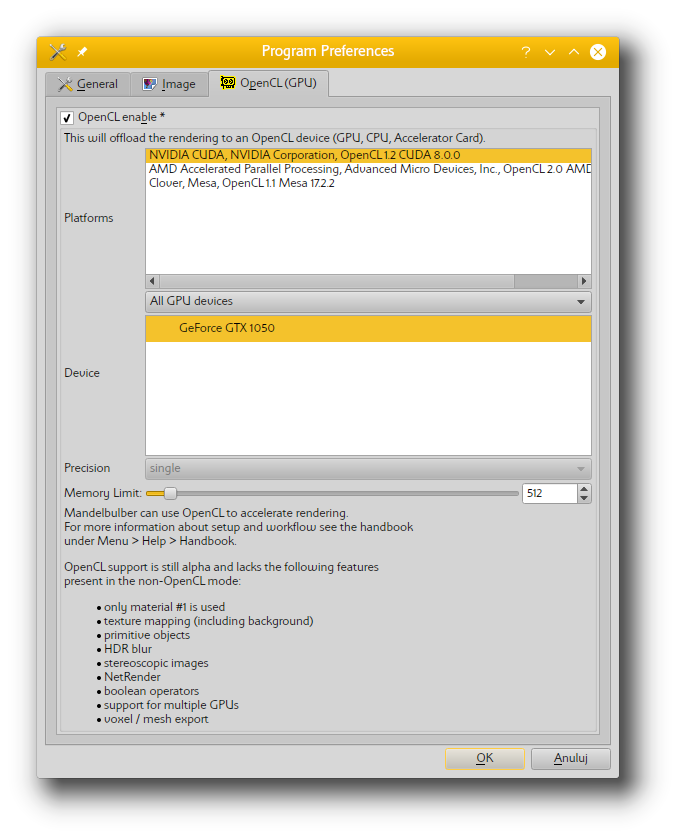
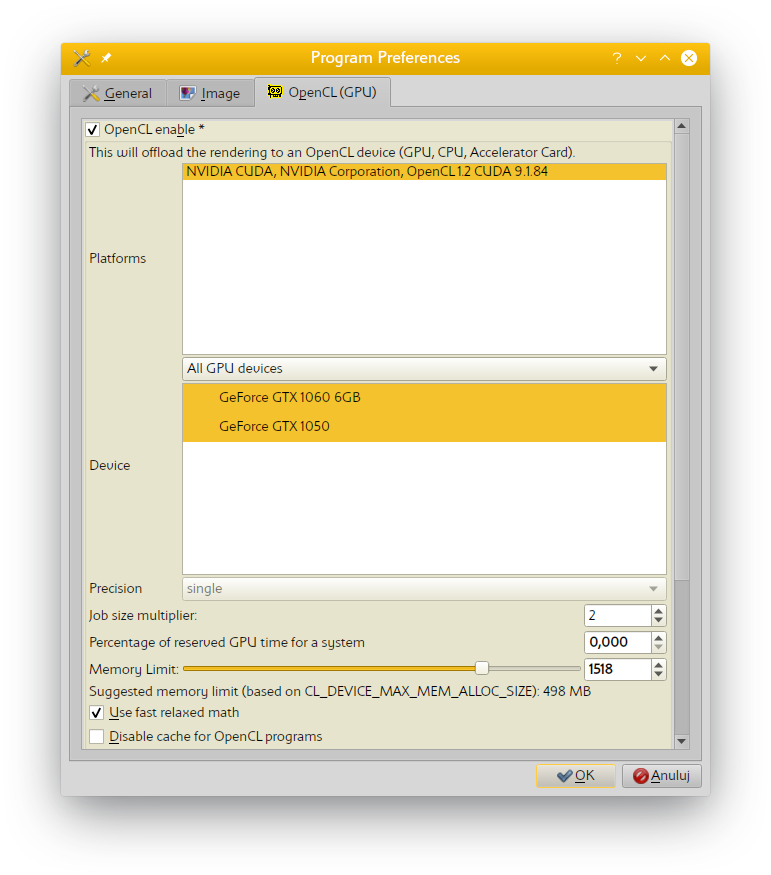
Updated chapter about OpenCL

diff --git a/mandelbulber2/manual/chapters/opencl.tex b/mandelbulber2/manual/chapters/opencl.tex
@@ -2,7 +2,7 @@
 
 \section{OpenCL}\label{opencl}\index{OpenCL}
 
-The use of OpenCL enables offloading the rendering of the fractal to the
+The use of OpenCL \index{termination condition!maxiter} enables offloading the rendering of the fractal to the
 GPU or to an accelerator card. This can highly reduce the render time.
 OpenCL itself is an industry standard developed by the Khronos group and
 is a well established framework. The two mayor GPU vendors (ATI / Nvidia)
@@ -57,30 +57,39 @@ You will find the configuration page in figure \ref{opencl_tab}.
 
 \begin{itemize}
 	\item First you need to enable OpenCL by enabling the checkbox
+	
 	\item Then you need to select the platform and device to identify the OpenCL hardware 
 		element to render with.
+		
+	\item Select devices which you want to use during rendering. Can be used many devices simultaneously. There need to be selected at least one device.
 %	\item \textbf{Precision} - Switch between float and double precision
 %	\begin{itemize}
 %		\item \textbf{float} - gives high performance render, but is limited in precision, 
 %			sometimes this mode can result in artifacts and bad DE.
 %		\item \textbf{double}- gives lower performance render (at least by factor 2), but has the same accuracy as the non OpenCL version. This mode may prevent artifacts.
 %	\end{itemize}
-%	\item \textbf{Mode} - Switches the rendering engine between different levels of shader extent.	
-	\item \textbf{Memory Limit} - Memory limit in MB for the device. Most graphics cards cannot handle memory objects larger than 512MB. If you observe that SSAO or DOF effects fail during rendering you can try to decrease this limit. When the program needs more memory (image resolution too high), then the effects will be rendered using CPU.
+%	\item \textbf{Mode} - Switches the rendering engine between different levels of shader extent.
 	\item \textbf{Mode} - This setting is located in the Navigation dock just below the RENDER button. It switches the rendering engine between different levels of shader extent.
-	\begin{itemize}
-		\item  \textbf{no OpenCL} - temporarily disables OpenCL  Rendering is done by CPU.
-		\item  \textbf{fast} - renders preview of the fractal shape. The appearance of the fractal is not realistic, but the rendering is very fast.
-		\item  \textbf{medium} - image is rendered with correct surface colors, but volumetric effects, reflection and refraction of light is not calculated. There is used only first defined material. This mode offers more realistic rendering than in \emph{fast} mode and uses less graphics card resources than in \emph{full} mode. 
-		\item  \textbf{full} - renders all effects	
-	\end{itemize}
-
-Note: When openCL is enabled the image will be rendered in \textbf{fast mode}, a user must change to limited or full modes to get a realistic appearance. The default setting is \textbf{fast mode}  because on low cost gfx cards (like built-in Intel), \textbf{full} mode doesn't work and can cause the gfx driver to crash. 	
-
-	
-\end{itemize}
-	\simpleImageWithCaptionHalfWidth{img/manual/media/opencl_mode.png}{OpenCL Mode in Navigation dock}
+		\simpleImageWithCaptionHalfWidth{img/manual/media/opencl_mode.png}{OpenCL Mode in Navigation dock}
 	{opencl_mode}
+\begin{itemize}
+	\item  \textbf{no OpenCL} - temporarily disables OpenCL  Rendering is done by CPU.
+	\item  \textbf{fast} - renders preview of the fractal shape. The appearance of the fractal is not realistic, but the rendering is very fast.
+	\item  \textbf{medium} - image is rendered with correct surface colors, but volumetric effects, reflection and refraction of light is not calculated. There is used only first defined material. This mode offers more realistic rendering than in \emph{fast} mode and uses less graphics card resources than in \emph{full} mode. 
+	\item  \textbf{full} - renders all effects	
+\end{itemize}
+
+	\item \textbf{Percentage of reserved GPU time for a system} - rendering using OpenCL can slow down the system when there is used the same graphics card as display adapter. To be able to use the system you can reserve small percentage of GPU time for other programs.
+	
+	\item \textbf{Memory Limit} - Memory limit in MB for the device. Most graphics cards cannot handle memory objects larger than 1/4 of total memory installed in graphics card. It is recommended to set memory limit not greater than value suggested below slider.  
+	
+	If you observe that SSAO or DOF effects fail during rendering you can try to decrease this limit. When the program needs more memory (image resolution too high), then the effects will be rendered using CPU.
+	
+	\item \textbf{Use fast relaxed math} - It speeds up rendering but can cause unexpected behavior on old gfx cards.
+	 
+	\item \textbf{Disable cache of OpenCL programs} - clears and disable cache for OpenCL programs used by NVidia drivers. When chache is disabled, then OpenCL programs are compiled before every rendering.
+\end{itemize}
+
 
 \subsection{Trouble shooting OpenCL}\label{opencl-troubleshooting}
 
@@ -88,7 +97,9 @@ Note: When openCL is enabled the image will be rendered in \textbf{fast mode}, a
 
 When Mandelbulber is run under Windows, the OS will monitor the GPU with a watchdog. When the card becomes unresponsive for more than two seconds, the driver will shutdown and crash with a message like:
 
-\textbf{The NVIDIA OpenGL driver lost connection with the display driver due to exceeding the Windows Time-Out limit and is unable to continue.}
+\emph{The NVIDIA OpenGL driver lost connection with the display driver due to exceeding the Windows Time-Out limit and is unable to continue.}
+
+Mandelbulber will show messages like \emph{Cannot equeue OpenCL output buffers}
 
 It can happen when there are enabled effects which make rendering of each pixel very long. 
 
@@ -109,6 +120,8 @@ Change of registry takes effect after restart of Windows.
 
 \end{enumerate}
 
+Instead of manual registry edits you can use \emph{TDR\_disable.bat} script located in program folder. You have to run it as administrator
+
 You can find more information about this topic in the following resources:
 
 The original Blogpost in Fragmentarium, which has been used as the source of this article: \url{http://blog.hvidtfeldts.net/index.php/2011/12/fragmentarium-faq/}
@@ -121,11 +134,12 @@ Conversation about this topic in the fractalforums Mandelbulber group:
 Battlefield trouble shooting with same problem:
 \url{https://www.reddit.com/r/battlefield_4/comments/1xzzn4/tdrdelay_10_fixed_my_crashes_since_last_patch/}
 
-\subsubsection{Artifacts from glow and fog}
-
- Limited floating point accuracy can cause artifacts can when using glow or fog, if the Maximum View Distance is too large. In the image below the distance was set at 192, reducing this to 30 removes the visible artifacts.
- 
- 	\simpleImageWithCaptionHalfWidth{img/manual/media/artifacts_from_glow_or_fog.png}{artifacts from glow or fog.png}
- 		{artifacts_from_glow_or_fog}
+%Artifacts are eleminated in 2.17
+%\subsubsection{Artifacts from glow and fog}
+%
+% Limited floating point accuracy can cause artifacts can when using glow or fog, if the Maximum View Distance is too large. In the image below the distance was set at 192, reducing this to 30 removes the visible artifacts.
+% 
+% 	\simpleImageWithCaptionHalfWidth{img/manual/media/artifacts_from_glow_or_fog.png}{artifacts from glow or fog.png}
+% 		{artifacts_from_glow_or_fog}
  
  

diff --git a/handbook.tex b/handbook.tex
@@ -11,8 +11,8 @@
 
 \newcommand{\mTitle}{Mandelbulber}
 \newcommand{\mSubtitle}{End User Manual}
-\newcommand{\mVersionDocument}{2.14.0.0}
-\newcommand{\mDateDocument}{2018-June}
+\newcommand{\mVersionDocument}{2.17.0.0}
+\newcommand{\mDateDocument}{2019-February}
 \newcommand{\mAuthor}{	
 \begin{tabular}{r|p{11cm}}
 	\textsc{Krzysztof Marczak:}
